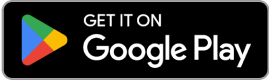
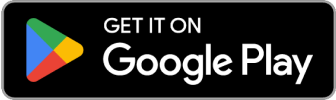
change store image

diff --git a/pages/landing-page.tsx b/pages/landing-page.tsx
@@ -94,10 +94,15 @@ const LandingPage = ({ needLoading }: { needLoading: boolean | undefined }) => {
                     through blockchain
                   </p>
                   <div className="download-link">
-                    <a href={AppleStoreLink} target="_blank" title="App Store">
+                    <a
+                      href={AppleStoreLink}
+                      target="_blank"
+                      title="App Store"
+                      className="google-play-link"
+                    >
                       <Image
                         className="app-store"
-                        src={Images.AppStore}
+                        src={Images.AppStorePng}
                         alt=""
                       />
                     </a>

diff --git a/theme/Images.ts b/theme/Images.ts
@@ -129,6 +129,7 @@ import RedeemRewardSuccess from '../static/images/redeem-reward-success.gif';
 import FacebookIcon from '../static/images/facebook.png';
 import InsIcon from '../static/images/ins.png';
 import WebsiteIcon from '../static/images/website.png';
+import AppStorePng from '../static/images/app-store.png';
 
 const Images = {
   Safety,
@@ -142,6 +143,7 @@ const Images = {
   ButtonVerify,
   AppStore,
   GooglePlay,
+  AppStorePng,
   LandingPageBackground,
   PhoneDetail,
   LoginBackground,

diff --git a/styles/landingPage.style.ts b/styles/landingPage.style.ts
@@ -62,7 +62,6 @@ const LandingPageContainer = styled.div`
           margin-right: 16px;
         }
         .google-play-link {
-          width: 168px;
           height: 50px;
           display: inline-block;
           span, img {
